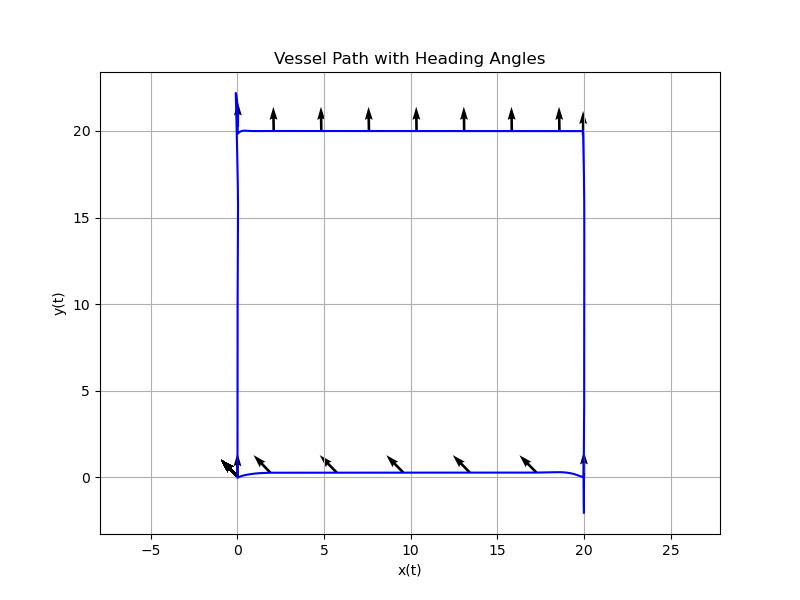
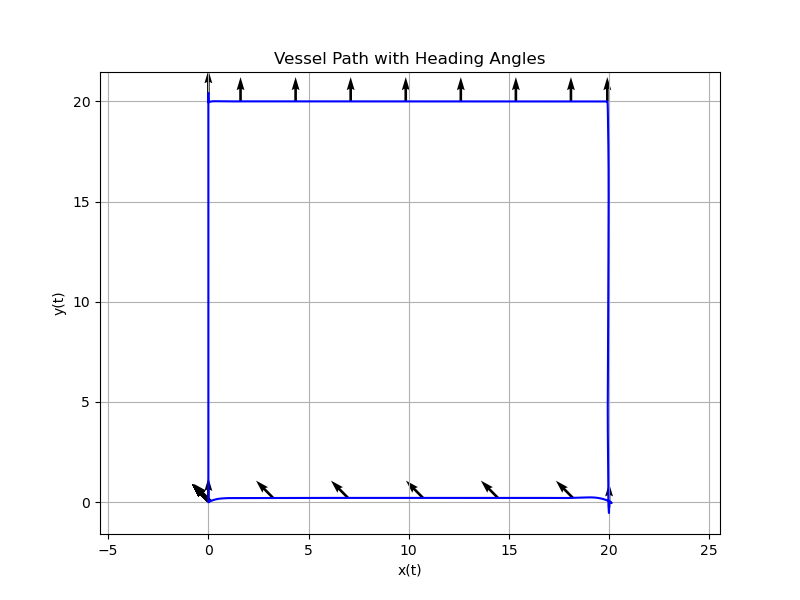
Improved MPC control system and pseudo inv method.

diff --git a/src/Control/MPC_control_system.cpp b/src/Control/MPC_control_system.cpp
@@ -147,7 +147,7 @@ bool MPC_Control_System::solve(const std::vector<double>& x0, double x_s, double
     Opti opti;
 
     // Decision variables:
-    // X: state trajectory (6 x (N+1))
+    // X: state trajectory (6 x (N+1)) 
     // U: control inputs (3 x N)
     MX X = opti.variable(6, N+1);
 
@@ -247,59 +247,57 @@ bool MPC_Control_System::solve(const std::vector<double>& x0, double x_s, double
     MX path_x_start = x_s;
     MX path_y_start = y_s;
     MX path_x_goal  = x_d;
-    MX path_y_goal  = y_d;
+    MX path_y_goal  = y_d;  
 
     // Compute unit direction vector along the path
     MX path_dx = path_x_goal - path_x_start;
     MX path_dy = path_y_goal - path_y_start;
-    MX path_length = sqrt(path_dx * path_dx + path_dy * path_dy);
+    MX path_length = sqrt(path_dx*path_dx + path_dy*path_dy);
     MX path_dir_x = path_dx / path_length;
     MX path_dir_y = path_dy / path_length;
 
+
+
     MX cost = 0;
-    for (int i = 0; i < N; i++) {
-        
+    for(int i = 0; i < N; ++i) {
         MX tau = control_allocation(n_vars(Slice(), i), alpha_vars(Slice(), i),
                                     lx, ly1, ly2, k_pos, k_neg);
 
         MX X_next = oneStepFunc({X(Slice(), i), tau})[0];
         opti.subject_to(X(Slice(), i + 1) == X_next);
 
-        // Project current position onto path direction
-        MX rel_x = X(0, i) - path_x_start;
-        MX rel_y = X(1, i) - path_y_start;
-        MX proj_dist_along_path = rel_x * path_dir_x + rel_y * path_dir_y;
-        // Compute normalized progress (from 1 at start to 0 at goal)
-        MX progress = proj_dist_along_path / path_length; 
-        MX progress_scaled = abs(1.0 - progress);     
-        // Closest point on the path line
-        MX proj_x = proj_dist_along_path * path_dir_x + path_x_start;
-        MX proj_y = proj_dist_along_path * path_dir_y + path_y_start;
-        // Crosstrack error components and squared magnitude
-        MX crosstrack_x = X(0, i) - proj_x;
-        MX crosstrack_y = X(1, i) - proj_y;
-        MX crosstrack_error_square = sqrt(crosstrack_x*crosstrack_x + crosstrack_y*crosstrack_y + 1e-6);
-        // Progress error: distance from projected point to goal
-        MX remaining_distance = path_length - proj_dist_along_path;
-        // Normalize the remaining distance (so that 1 corresponds to the full path length)
-        MX normalized_remaining_distance = remaining_distance / path_length;
-        MX distance_error_square = sqrt(normalized_remaining_distance*normalized_remaining_distance + 1e-6);
+        // --- 1) cross-track error to infinite line ---
+        MX rel_x = X(0,i) - path_x_start;
+        MX rel_y = X(1,i) - path_y_start;
+        MX proj_dist = rel_x*path_dir_x + rel_y*path_dir_y;    
+        MX cross_x = rel_x - proj_dist*path_dir_x;
+        MX cross_y = rel_y - proj_dist*path_dir_y;
+        MX crosstrack_error_sq = sqrt(cross_x*cross_x + cross_y*cross_y + 1e-4);
+    
+        // --- 2) position error along the line (1 @ start → 0 @ goal) ---
+        MX normalized_along = proj_dist / path_length;
+        MX position_error   = 1 - normalized_along;       // 1→0 along segment
+        MX position_error_sq = sqrt(position_error * position_error + 1e-4); 
+    
+        // --- 3) heading error ---
+        MX heading_error = X(2,i) - psi_d;
+        MX heading_error_sq = sqrt(heading_error * heading_error + 1e-4);
 
         if (failstate[0] || failstate[1]) { // Penalties when error state
-            cost +=  crosstrack_error_square; 
-            cost +=  55 * distance_error_square;
-            cost +=  pow(X(2, i) - psi_d, 2); 
+            cost +=  0 * crosstrack_error_sq; 
+            cost += 30 * position_error_sq;
+            cost +=  1 * heading_error_sq;  
         } 
         else { // Penalties in normal operation
-            cost +=   2 * crosstrack_error_square; 
-            cost +=  15 * distance_error_square;
-            cost +=  10 * pow(X(2, i) - psi_d, 2);  // Scaled based on progress such that this is not the only parameter of improtance close to the goal. 
+            cost +=  2 * crosstrack_error_sq; 
+            cost +=  8 * position_error_sq;
+            cost += 10 * heading_error_sq;  
         }
 
         if (i > 0) {
             MX d_n = n_cmd(Slice(), i) - n_cmd(Slice(), i - 1);
             MX d_alpha = alpha_cmd(Slice(), i) - alpha_cmd(Slice(), i - 1);
-            cost += 5*dot(d_n, d_n) + 1*dot(d_alpha, d_alpha);
+            cost += 5*dot(d_n, d_n) + dot(d_alpha, d_alpha);
         }  
     } 
     

diff --git a/src/Control/pseudo_inverse_allocation.cpp b/src/Control/pseudo_inverse_allocation.cpp
@@ -1,41 +1,60 @@
 #include <Eigen/Dense>
+#include <vector>
 #include <cmath>
+#include <cassert>
 
+// tau_XYN:      {τX, τY, τN}
+// B:            3×4 geometry‐only matrix T_e
+// k_pos, k_neg: thrust coefficients for forward (n>=0) / reverse (n<0)
+// returns:      {n1, alpha1, n2, alpha2}
 std::vector<double> pseudo_inverse_allocation(
     const std::vector<double>& tau_XYN,
     const Eigen::MatrixXd& B,
     double k_pos,
     double k_neg)
 {
-    Eigen::Vector3d tau;
-    tau << tau_XYN[0], tau_XYN[1], tau_XYN[2];
+    assert(tau_XYN.size()==3);
+    assert(B.rows()==3 && B.cols()==4);
 
-    // 1) Compute Moore–Penrose pseudo-inverse of B:
-    //    B^+ = B^T * (B * B^T)^(-1)
-    Eigen::Matrix3d BBt = B * B.transpose();       // 3×3
-    Eigen::Matrix3d BBt_inv = BBt.inverse();       // (B B^T)^(-1)
-    Eigen::MatrixXd Bplus = B.transpose() * BBt_inv; // (cols_B)×3
+    // 1) Build τ
+    Eigen::Vector3d tau(tau_XYN[0], tau_XYN[1], tau_XYN[2]);
 
-    // 2) Solve for “extended” forces u_ext = B^+ * tau
-    Eigen::VectorXd u_ext = Bplus * tau;  // 4×1 if B is 3×4
+    // 2) Compute B⁺ = Bᵀ (B Bᵀ)⁻¹ → 4×3
+    Eigen::Matrix3d BBt    = B * B.transpose();
+    Eigen::Matrix3d BBtInv = BBt.inverse();
+    Eigen::Matrix<double,4,3> Bplus = B.transpose() * BBtInv;
 
-    // 3) Split into x/y components
+    // 3) Solve for extended forces [u1x,u1y,u2x,u2y]ᵀ
+    Eigen::Vector4d u_ext = Bplus * tau;
     double u1x = u_ext(0), u1y = u_ext(1);
     double u2x = u_ext(2), u2y = u_ext(3);
 
-    // 4) Recover azimuth angles
-    double alpha1 = std::atan2(u1y, u1x);
+    // 4) Compute the total thrust magnitude and raw angle:
+    double F1    = std::hypot(u1x, u1y);
+    double alpha1 = std::atan2(u1y, u1x);  // in (−π,π]
+
+    // 5) Clamp alpha into [−π/2,π/2] and record flip s1:
+    double s1 = +1.0;
+    if      (alpha1 >  M_PI_2) { alpha1 -= M_PI; s1 = -1; }
+    else if (alpha1 < -M_PI_2) { alpha1 += M_PI; s1 = -1; }
+
+    // 6) Pick the correct thrust coefficient:
+    double k1 = (s1 > 0 ? k_pos : k_neg);
+
+    // 7) Solve F1 = k1 * n1 * |n1|  ⇒  |n1| = sqrt(F1/k1), then re‐apply sign:
+    double n1 = s1 * std::sqrt(std::abs(F1) / k1);
+
+    // Repeat for thruster 2:
+    double F2    = std::hypot(u2x, u2y);
     double alpha2 = std::atan2(u2y, u2x);
-    //    (Assume alpha_i in [–pi/2, +pi/2] so cos(alpha_i) >= 0)
+    double s2 = +1.0;
+    if      (alpha2 >  M_PI_2) { alpha2 -= M_PI; s2 = -1; }
+    else if (alpha2 < -M_PI_2) { alpha2 += M_PI; s2 = -1; }
+    double k2 = (s2 > 0 ? k_pos : k_neg);
+    double n2 = s2 * std::sqrt(std::abs(F2) / k2);
 
-    // 5) Choose the correct gain based on the sign of u_i_x
-    double k1 = (u1x >= 0 ? k_pos : k_neg);
-    double k2 = (u2x >= 0 ? k_pos : k_neg);
 
-    // 6) Back-substitute for speeds: u_i_x = k_i * n_i * cos(alpha_i)
-    double n1 = u1x / (k1 * std::cos(alpha1));
-    double n2 = u2x / (k2 * std::cos(alpha2));
-
-    return { n1, n2, alpha1, alpha2 };
+    // 8) Return in the order {n1, alpha1, n2, alpha2}
+    return { n1, alpha1, n2, alpha2 };
 }
 

diff --git a/src/Models/ran.cpp b/src/Models/ran.cpp
@@ -348,37 +348,43 @@ void RAN::update(const Eigen::VectorXd x, double mp, double V_c, double beta_c,
         // Input matrix B (3x2). 
         // (Fossen Chapter 9.4 and 11.2)
         //----------------------------
-        Eigen::MatrixXd B_ = Eigen::MatrixXd::Zero(3,2);
-        double F1 = 0;
-        double F2 = 0;
+        // Eigen::MatrixXd B_ = Eigen::MatrixXd::Zero(3,4);
+        // double F1 = 0;
+        // double F2 = 0;
 
-        if (n(0) >= 0) {
-            F1 = k_pos;
-        } else if (n(0) < 0) {
-            F1 = k_neg;
-        }
+        // if (n(0) >= 0) {
+        //     F1 = k_pos;
+        // } else if (n(0) < 0) {
+        //     F1 = k_neg;
+        // }
 
-        if (n(1) >= 0) {
-            F2 = k_pos;
-        } else if (n(1) < 0) {
-            F2 = k_neg;
-        }
+        // if (n(1) >= 0) {
+        //     F2 = k_pos;
+        // } else if (n(1) < 0) {
+        //     F2 = k_neg;
+        // }
 
-        // First row: contribution to surge (X)
-        B_(0,0) = F1*cos(alpha(0));
-        B_(0,1) = F2*cos(alpha(1));
+        // // First row: contribution to surge (X)
+        // B_(0,0) = F1*cos(alpha(0));
+        // B_(0,1) = F2*cos(alpha(1));
 
-        // Second row: contribution to sway (Y)
-        B_(1,0) = F1*sin(alpha(0));
-        B_(1,1) = F2*sin(alpha(1));
+        // // Second row: contribution to sway (Y)
+        // B_(1,0) = F1*sin(alpha(0));
+        // B_(1,1) = F2*sin(alpha(1));
 
-        // Third row: contribution to yaw moment (N)
-        B_(2,0) =  F1*(lx*sin(alpha(0) - ly1*cos(alpha(0))));
-        B_(2,1) =  F2*(lx*sin(alpha(1) - ly2*cos(alpha(1))));
+        // // Third row: contribution to yaw moment (N)
+        // B_(2,0) =  F1*(lx*sin(alpha(0) - ly1*cos(alpha(0))));
+        // B_(2,1) =  F2*(lx*sin(alpha(1) - ly2*cos(alpha(1))));
 
-        //std::cout << "B : \n" << B_ << std::endl;
-        B = B_;
+        // //std::cout << "B : \n" << B_ << std::endl;
+        // B = B_;
 
+        Eigen::Matrix<double,3,4> B_e;
+        B_e <<  1,    0,    1,    0,
+              0,    1,    0,    1,
+             -ly1*cos(alpha[0]), lx*sin(alpha[0]), -ly2*cos(alpha[1]), lx*sin(alpha[1]);
+
+        B = B_e;
     }
     else {
         xdot_rk4.resize(12);

diff --git a/src/main.cpp b/src/main.cpp
@@ -177,7 +177,7 @@ int main() {
     // Motion control classes
     MIMOPIDController MIMO_PID;
     HeadingPIDController headPID;
-    MPC_Control_System mpc_control(30, 4*h); 
+    MPC_Control_System mpc_control(30, 3*h); 
 
     // Desired rate of turn and acceleration
     double r_d = 0.0; 
@@ -241,6 +241,7 @@ int main() {
         U = ran_model.get_U();
         n = ran_model.get_n();
         alpha = ran_model.get_alpha();
+        B = ran_model.get_B();
 
         // ------------------------------ Mode switch ------------------------------
 
@@ -345,7 +346,7 @@ int main() {
         // ------------------------------ Control System ------------------------------
 
         // - Motion Control: Dynamic positioning
-        if (GuidanceFlag==1 && ControlAllocFlag != 3){
+        if (GuidanceFlag==1 && ControlAllocFlag != 4){
             eta << u, v, w, p, q, r;
             nu  << xn, yn, zn, phi, theta, psi;
             tau_XYN = MIMO_PID.update(h, xn_d, yn_d, psi_d, M, eta, nu);
@@ -443,7 +444,7 @@ int main() {
             << "n_c(0), n_c(1):         " << n_c(0) << ", " << n_c(1) << std::endl
             << "n(0),   n(1):           " << n(0) << ", " << n(1) << std::endl
             << "------------------------------------------------" << std::endl
-            << std::fixed << std::setprecision(0)
+            << std::fixed << std::setprecision(2)
             << "alpha_c(0), alpha_c(1): " << rad2deg(alpha_c(0)) << ", " << rad2deg(alpha_c(1)) << std::endl
             << "alpha(0), alpha(1):     " << rad2deg(alpha(0)) << ", " << rad2deg(alpha(1)) << std::endl
             << "------------------------------------------------" << std::endl
